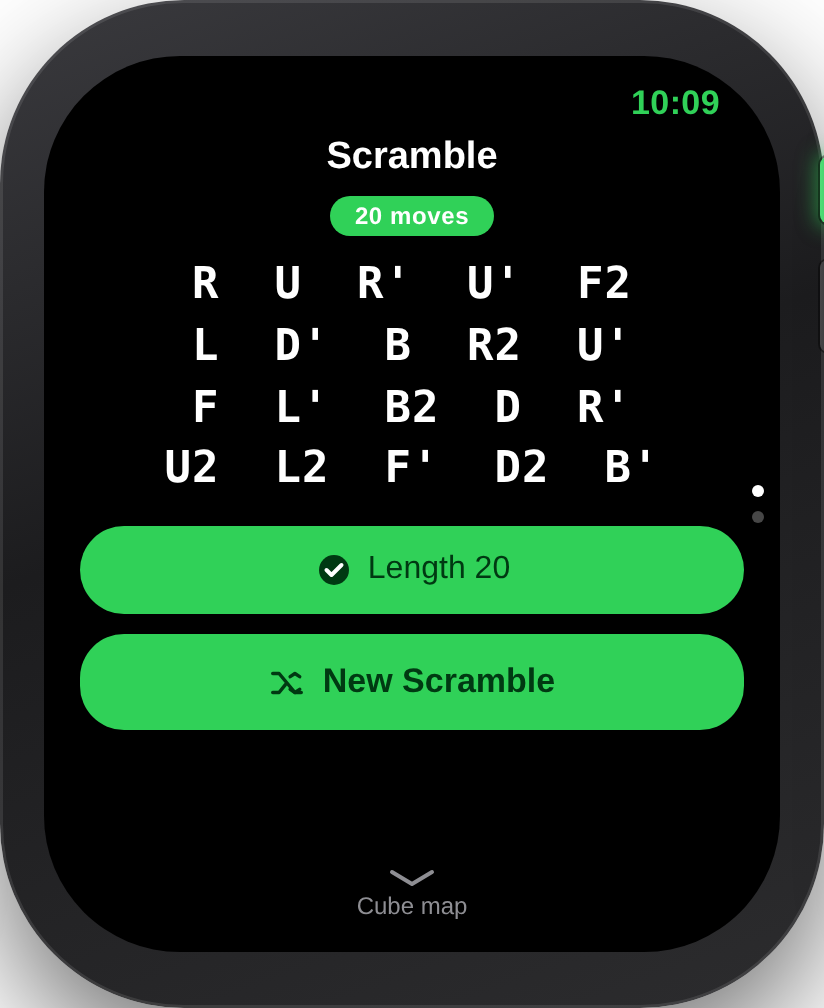
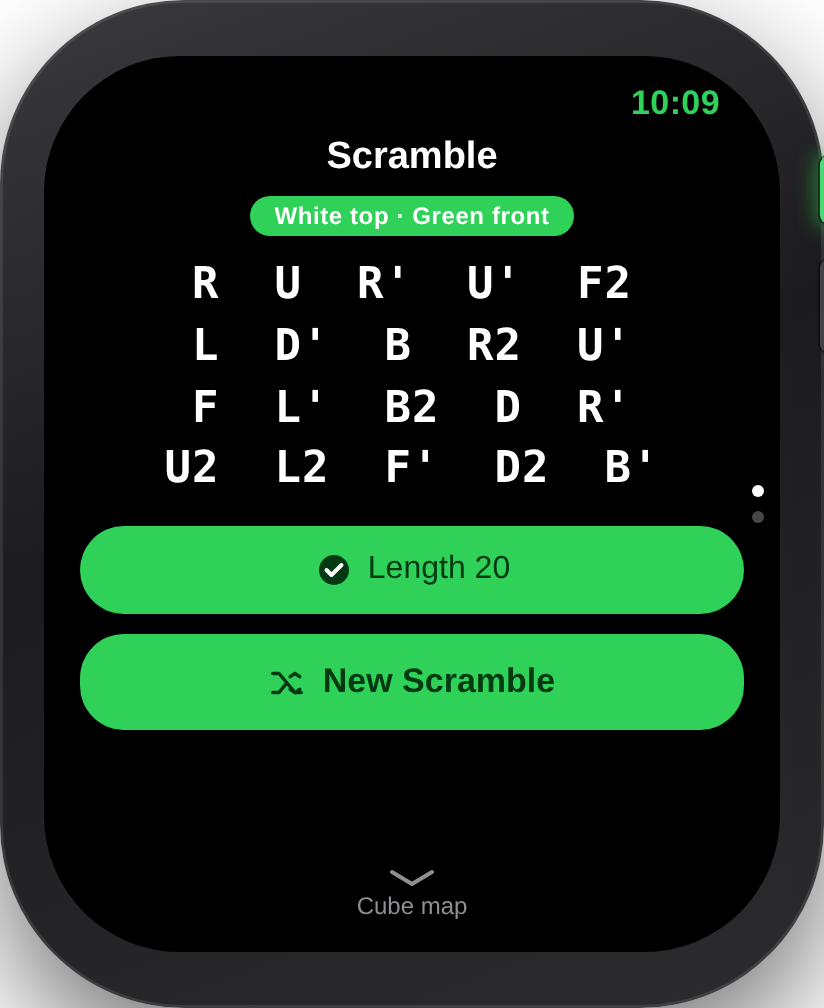
Show cube-orientation reminder instead of move count
Replace the "20 moves" badge with "White top · Green front" — the
standard WCA scramble orientation. The green pill and white text echo
the two reference faces so the cue reads instantly.

https://claude.ai/code/session_01UzvteeouedwRnp5Jnq4bwE

Changed region(s): [[0.3034, 0.1845, 0.5461, 0.246], [0.5461, 0.1845, 0.6978, 0.246]]

diff --git a/mockup/index.html b/mockup/index.html
@@ -248,7 +248,7 @@
       <div class="statusbar"><span class="time">10:09</span></div>
       <div class="navtitle">Scramble</div>
       <div class="content">
-        <div class="movecount">20 moves</div>
+        <div class="movecount">White top &middot; Green front</div>
         <div class="scramble" id="scrambleText"></div>
 
         <button class="lengthpill">
@@ -292,7 +292,7 @@
       <div class="statusbar"><span class="time">10:09</span></div>
       <div class="navtitle">Scramble</div>
       <div class="content">
-        <div class="movecount">20 moves</div>
+        <div class="movecount">White top &middot; Green front</div>
         <div class="scramble"></div>
 
         <button class="lengthpill active">

diff --git a/RubiksScramble/RubiksScramble Watch App/ContentView.swift b/RubiksScramble/RubiksScramble Watch App/ContentView.swift
@@ -31,7 +31,9 @@ private struct ScrambleScreen: View {
         NavigationStack {
             ScrollView {
                 VStack(spacing: 12) {
-                    Text("\(moves.count) moves")
+                    // Standard WCA scrambling orientation reminder. The green
+                    // pill + white text echo the two reference faces.
+                    Text("White top · Green front")
                         .font(.system(size: 12, weight: .bold))
                         .foregroundStyle(.white)
                         .padding(.horizontal, 10)
